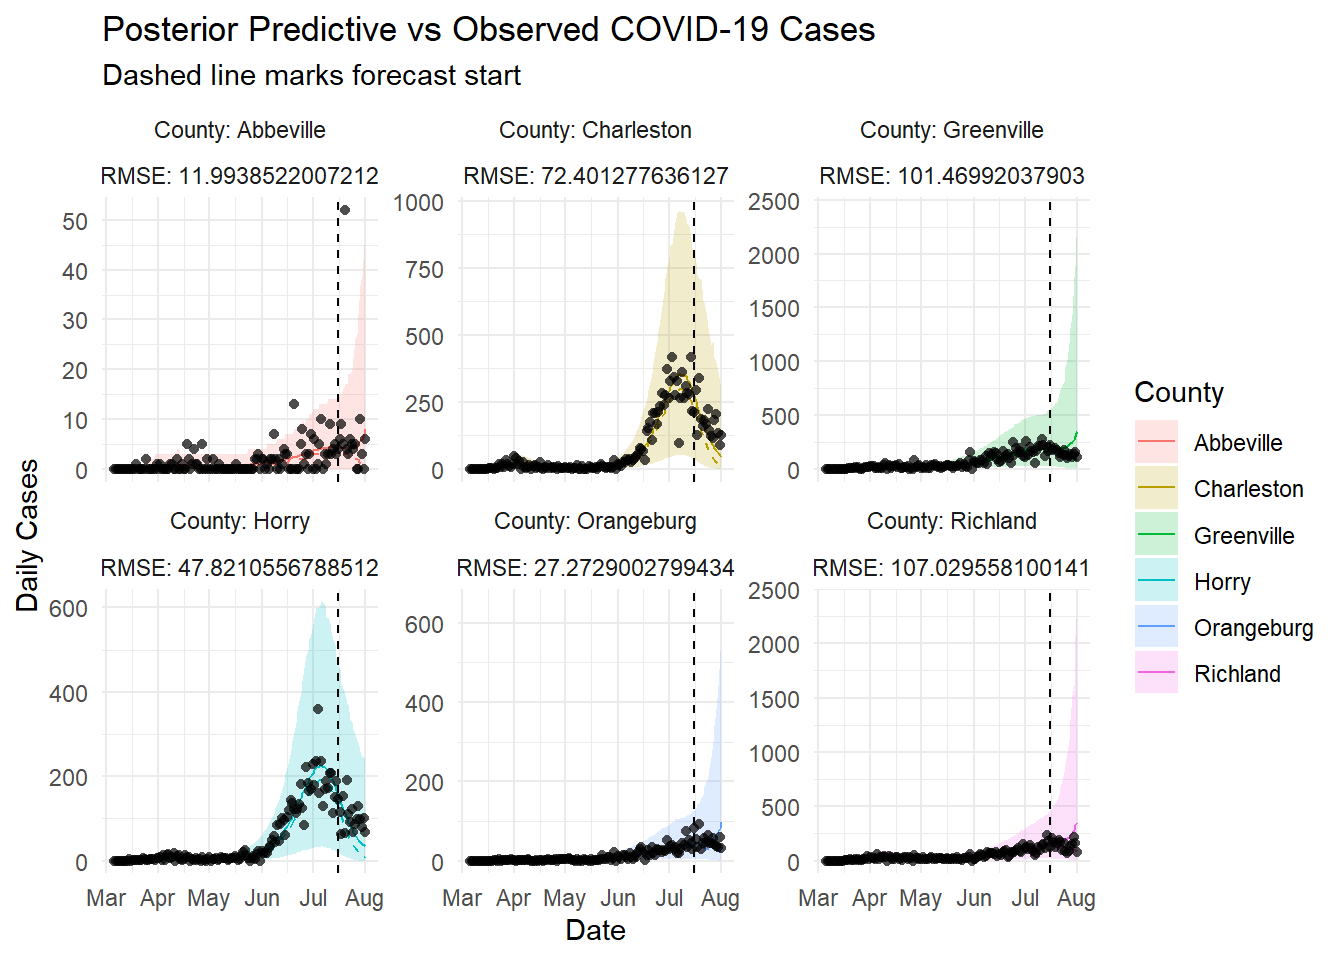
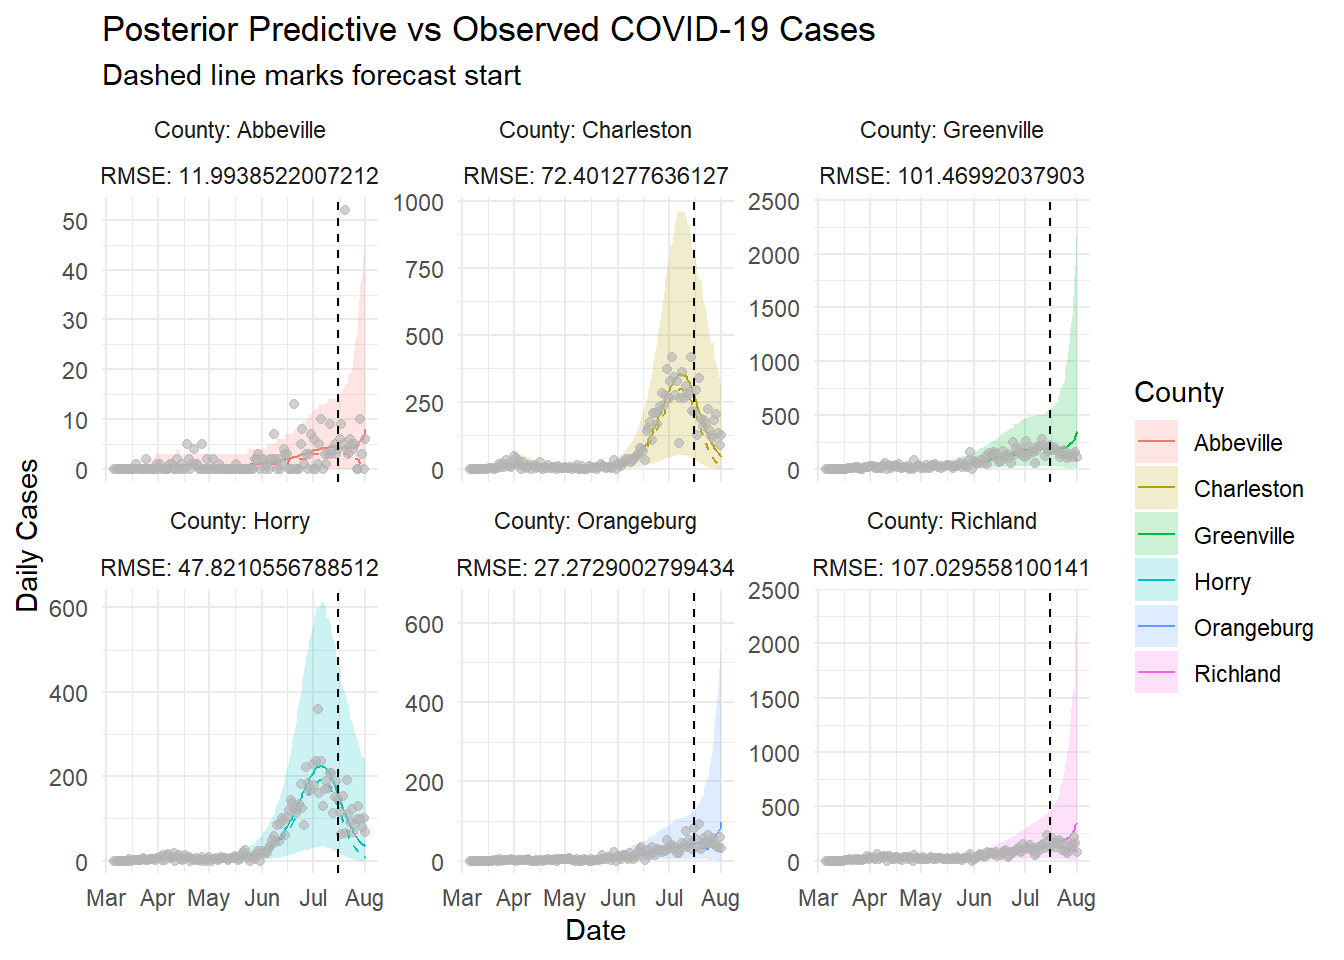
Build site.

diff --git a/docs/posterior_predictions.html b/docs/posterior_predictions.html
@@ -522,15 +522,15 @@ project makes it easier to run your code on other machines.</p>
 <div class="panel panel-default">
 <div class="panel-heading">
 <p class="panel-title">
-<a data-toggle="collapse" data-parent="#workflowr-checks" href="#strongRepositoryversionstrongahrefhttpsgithubcomJMitic01myprojectscframeworktreebd95e71fb4df3c189de7b692c21a9a4fa1dcdf7dtargetblankbd95e71a">
+<a data-toggle="collapse" data-parent="#workflowr-checks" href="#strongRepositoryversionstrongahrefhttpsgithubcomJMitic01myprojectscframeworktreee6dc28f9ca1e0b2672d065c026ac18ae524ffa5etargetblanke6dc28fa">
 <span class="glyphicon glyphicon-ok text-success"
 aria-hidden="true"></span> <strong>Repository version:</strong>
-<a href="https://github.com/JMitic01/myproject_scframework/tree/bd95e71fb4df3c189de7b692c21a9a4fa1dcdf7d" target="_blank">bd95e71</a>
+<a href="https://github.com/JMitic01/myproject_scframework/tree/e6dc28f9ca1e0b2672d065c026ac18ae524ffa5e" target="_blank">e6dc28f</a>
 </a>
 </p>
 </div>
 <div
[2 lines of base64/hex data omitted]
 class="panel-collapse collapse">
 <div class="panel-body">
 <p>
@@ -540,7 +540,7 @@ reproducibility.
 </p>
 <p>
 The results in this page were generated with repository version
-<a href="https://github.com/JMitic01/myproject_scframework/tree/bd95e71fb4df3c189de7b692c21a9a4fa1dcdf7d" target="_blank">bd95e71</a>.
+<a href="https://github.com/JMitic01/myproject_scframework/tree/e6dc28f9ca1e0b2672d065c026ac18ae524ffa5e" target="_blank">e6dc28f</a>.
 See the <em>Past versions</em> tab to see a history of the changes made
 to the R Markdown and HTML files.
 </p>
@@ -616,6 +616,40 @@ Message
 </tr>
 </thead>
 <tbody>
+<tr>
+<td>
+Rmd
+</td>
+<td>
+<a href="https://github.com/JMitic01/myproject_scframework/blob/e6dc28f9ca1e0b2672d065c026ac18ae524ffa5e/analysis/posterior_predictions.Rmd" target="_blank">e6dc28f</a>
+</td>
+<td>
+JMitic01
+</td>
+<td>
+2025-04-28
+</td>
+<td>
+wflow_publish("analysis/posterior_predictions.Rmd")
+</td>
+</tr>
+<tr>
+<td>
+html
+</td>
+<td>
+<a href="https://rawcdn.githack.com/JMitic01/myproject_scframework/41f11512470f6dc7e21cbd3dad18f8b0dc49b267/docs/posterior_predictions.html" target="_blank">41f1151</a>
+</td>
+<td>
+JMitic01
+</td>
+<td>
+2025-04-28
+</td>
+<td>
+Build site.
+</td>
+</tr>
 <tr>
 <td>
 html
@@ -728,8 +762,7 @@ model.</p>
 the actual observed daily case counts to the model’s posterior
 predictive means and medians across the same forecast window. Each
 county’s RMSE is displayed alongside its plot to quantify prediction
-error.<br />
-Counties such as <strong>Charleston</strong> and
+error. Counties such as <strong>Charleston</strong> and
 <strong>Greenville</strong> exhibit larger discrepancies between
 observed and predicted cases, leading to higher RMSE values. In
 contrast, counties like <strong>Abbeville</strong> and
@@ -740,10 +773,10 @@ RMSEs.</p>
 counties (e.g., Charleston), the model tends to slightly
 <strong>underpredict large surges</strong>, possibly due to the
 smoothing nature of the spline-based temporal trend or unmodeled
-localized outbreaks. - In smaller counties (e.g., Abbeville), the model
+localized outbreaks. In smaller counties (e.g., Abbeville), the model
 maintains tighter prediction intervals and better tracks fluctuations,
 likely because smaller absolute case numbers lead to proportionally less
-volatility. - The credible intervals generally encapsulate the observed
+volatility. The credible intervals generally encapsulate the observed
 cases during the forecast period, suggesting good model calibration even
 when the point predictions deviate.</p>
 <p>Overall, these visualizations highlight the model’s strength in
@@ -752,6 +785,13 @@ pinpointing counties where <strong>prediction accuracy is more
 variable</strong>. They also reinforce the complementary role of
 quantitative metrics like MAE and RMSE alongside qualitative visual
 inspection for model validation.</p>
+<p>If the posterior predictive and eta both peak at similar times: - The
+spline components (η) successfully model the main trends (rise and fall
+of cases). - The random effects (θ, possibly accounting for counties or
+other units) and observation noise (negative binomial variance) are not
+introducing major distortion. - This indicates that the spline basis and
+random effects in the Stan model are well calibrated to the real
+signal.</p>
 <pre class="r"><code># Forecast period and RMSE
 forecast_start &lt;- as.Date(&quot;2020-07-16&quot;)
 forecast_end &lt;- as.Date(&quot;2020-08-01&quot;)
@@ -788,7 +828,7 @@ gg_pred &lt;- ggplot(subset_df, aes(x = Date)) +
   geom_line(aes(y = Predicted_Cases, color = County)) +
   geom_line(aes(y = Median_Predicted_Cases, color = County), linetype = &quot;dashed&quot;) +
   geom_ribbon(aes(ymin = Lower_95_CI, ymax = Upper_95_CI, fill = County), alpha = 0.2) +
-  geom_point(aes(y = Observed_Cases), shape = 16, color = &quot;black&quot;, alpha = 0.7) +
+  geom_point(aes(y = Observed_Cases), color = &quot;gray70&quot;, alpha = 0.6, size = 1.5) +
   geom_vline(xintercept = forecast_start, linetype = &quot;dashed&quot;, color = &quot;black&quot;) +
   facet_wrap(~ County + RMSE, scales = &quot;free_y&quot;, labeller = label_both) +
   labs(title = &quot;Posterior Predictive vs Observed COVID-19 Cases&quot;,
